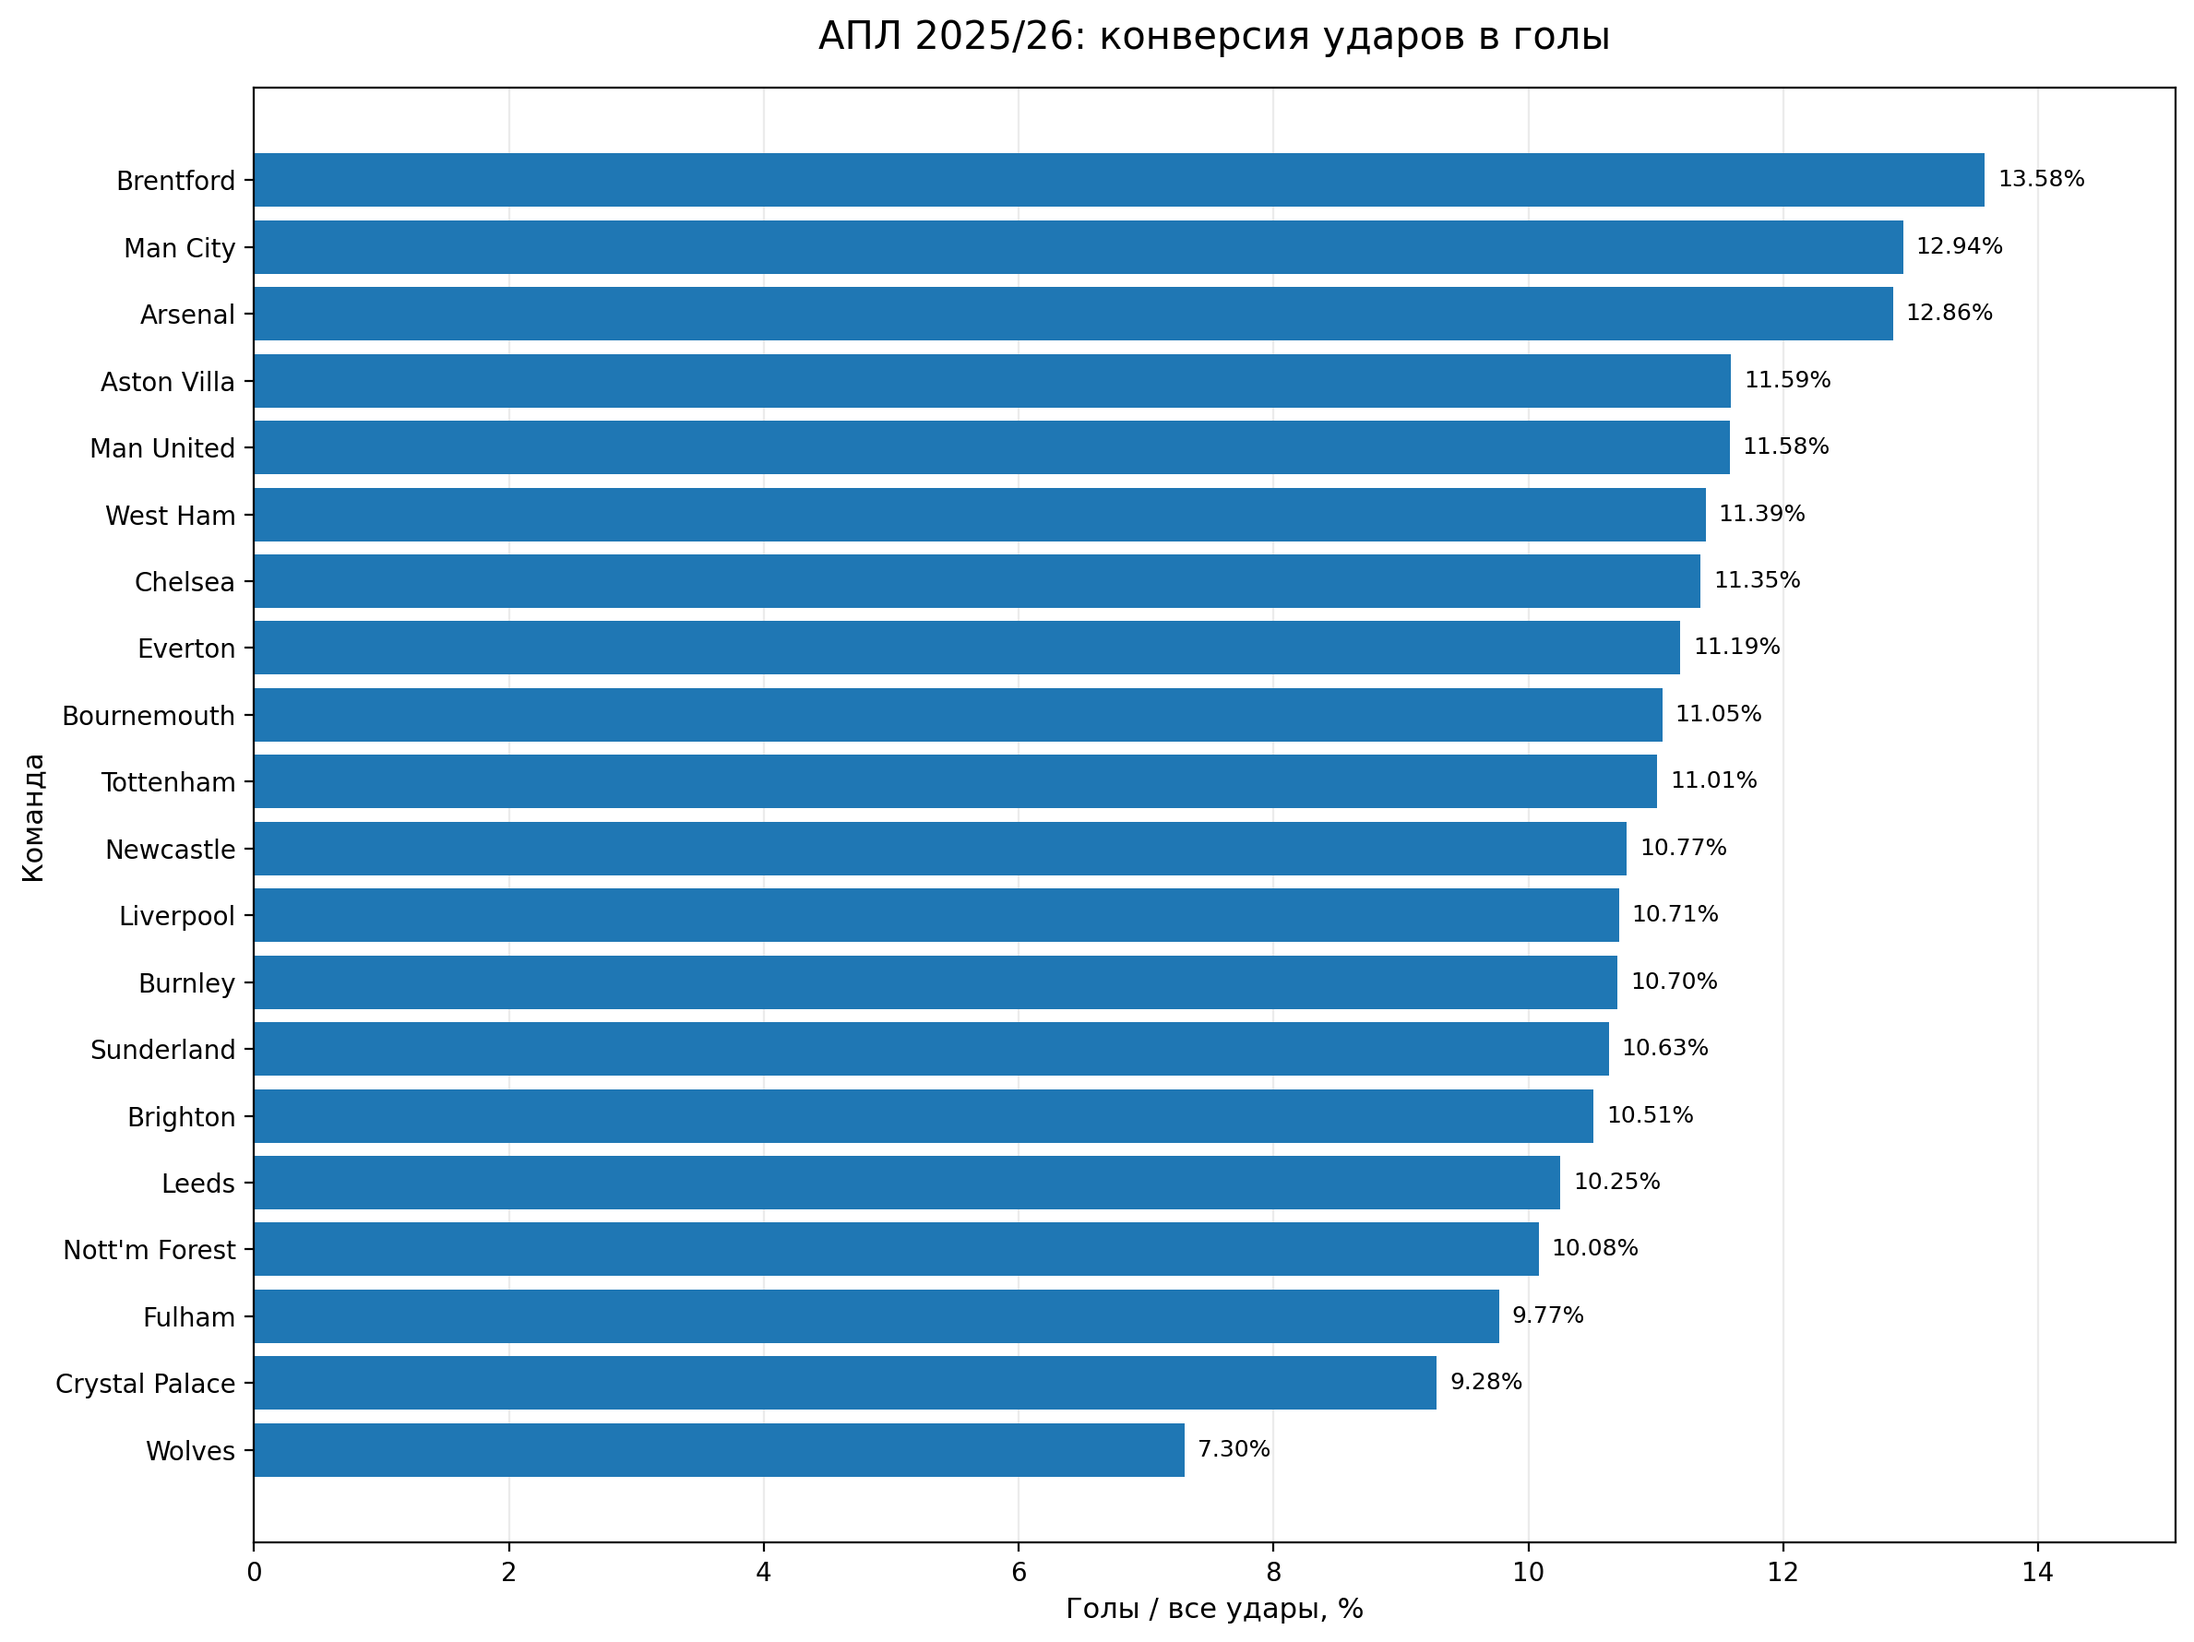
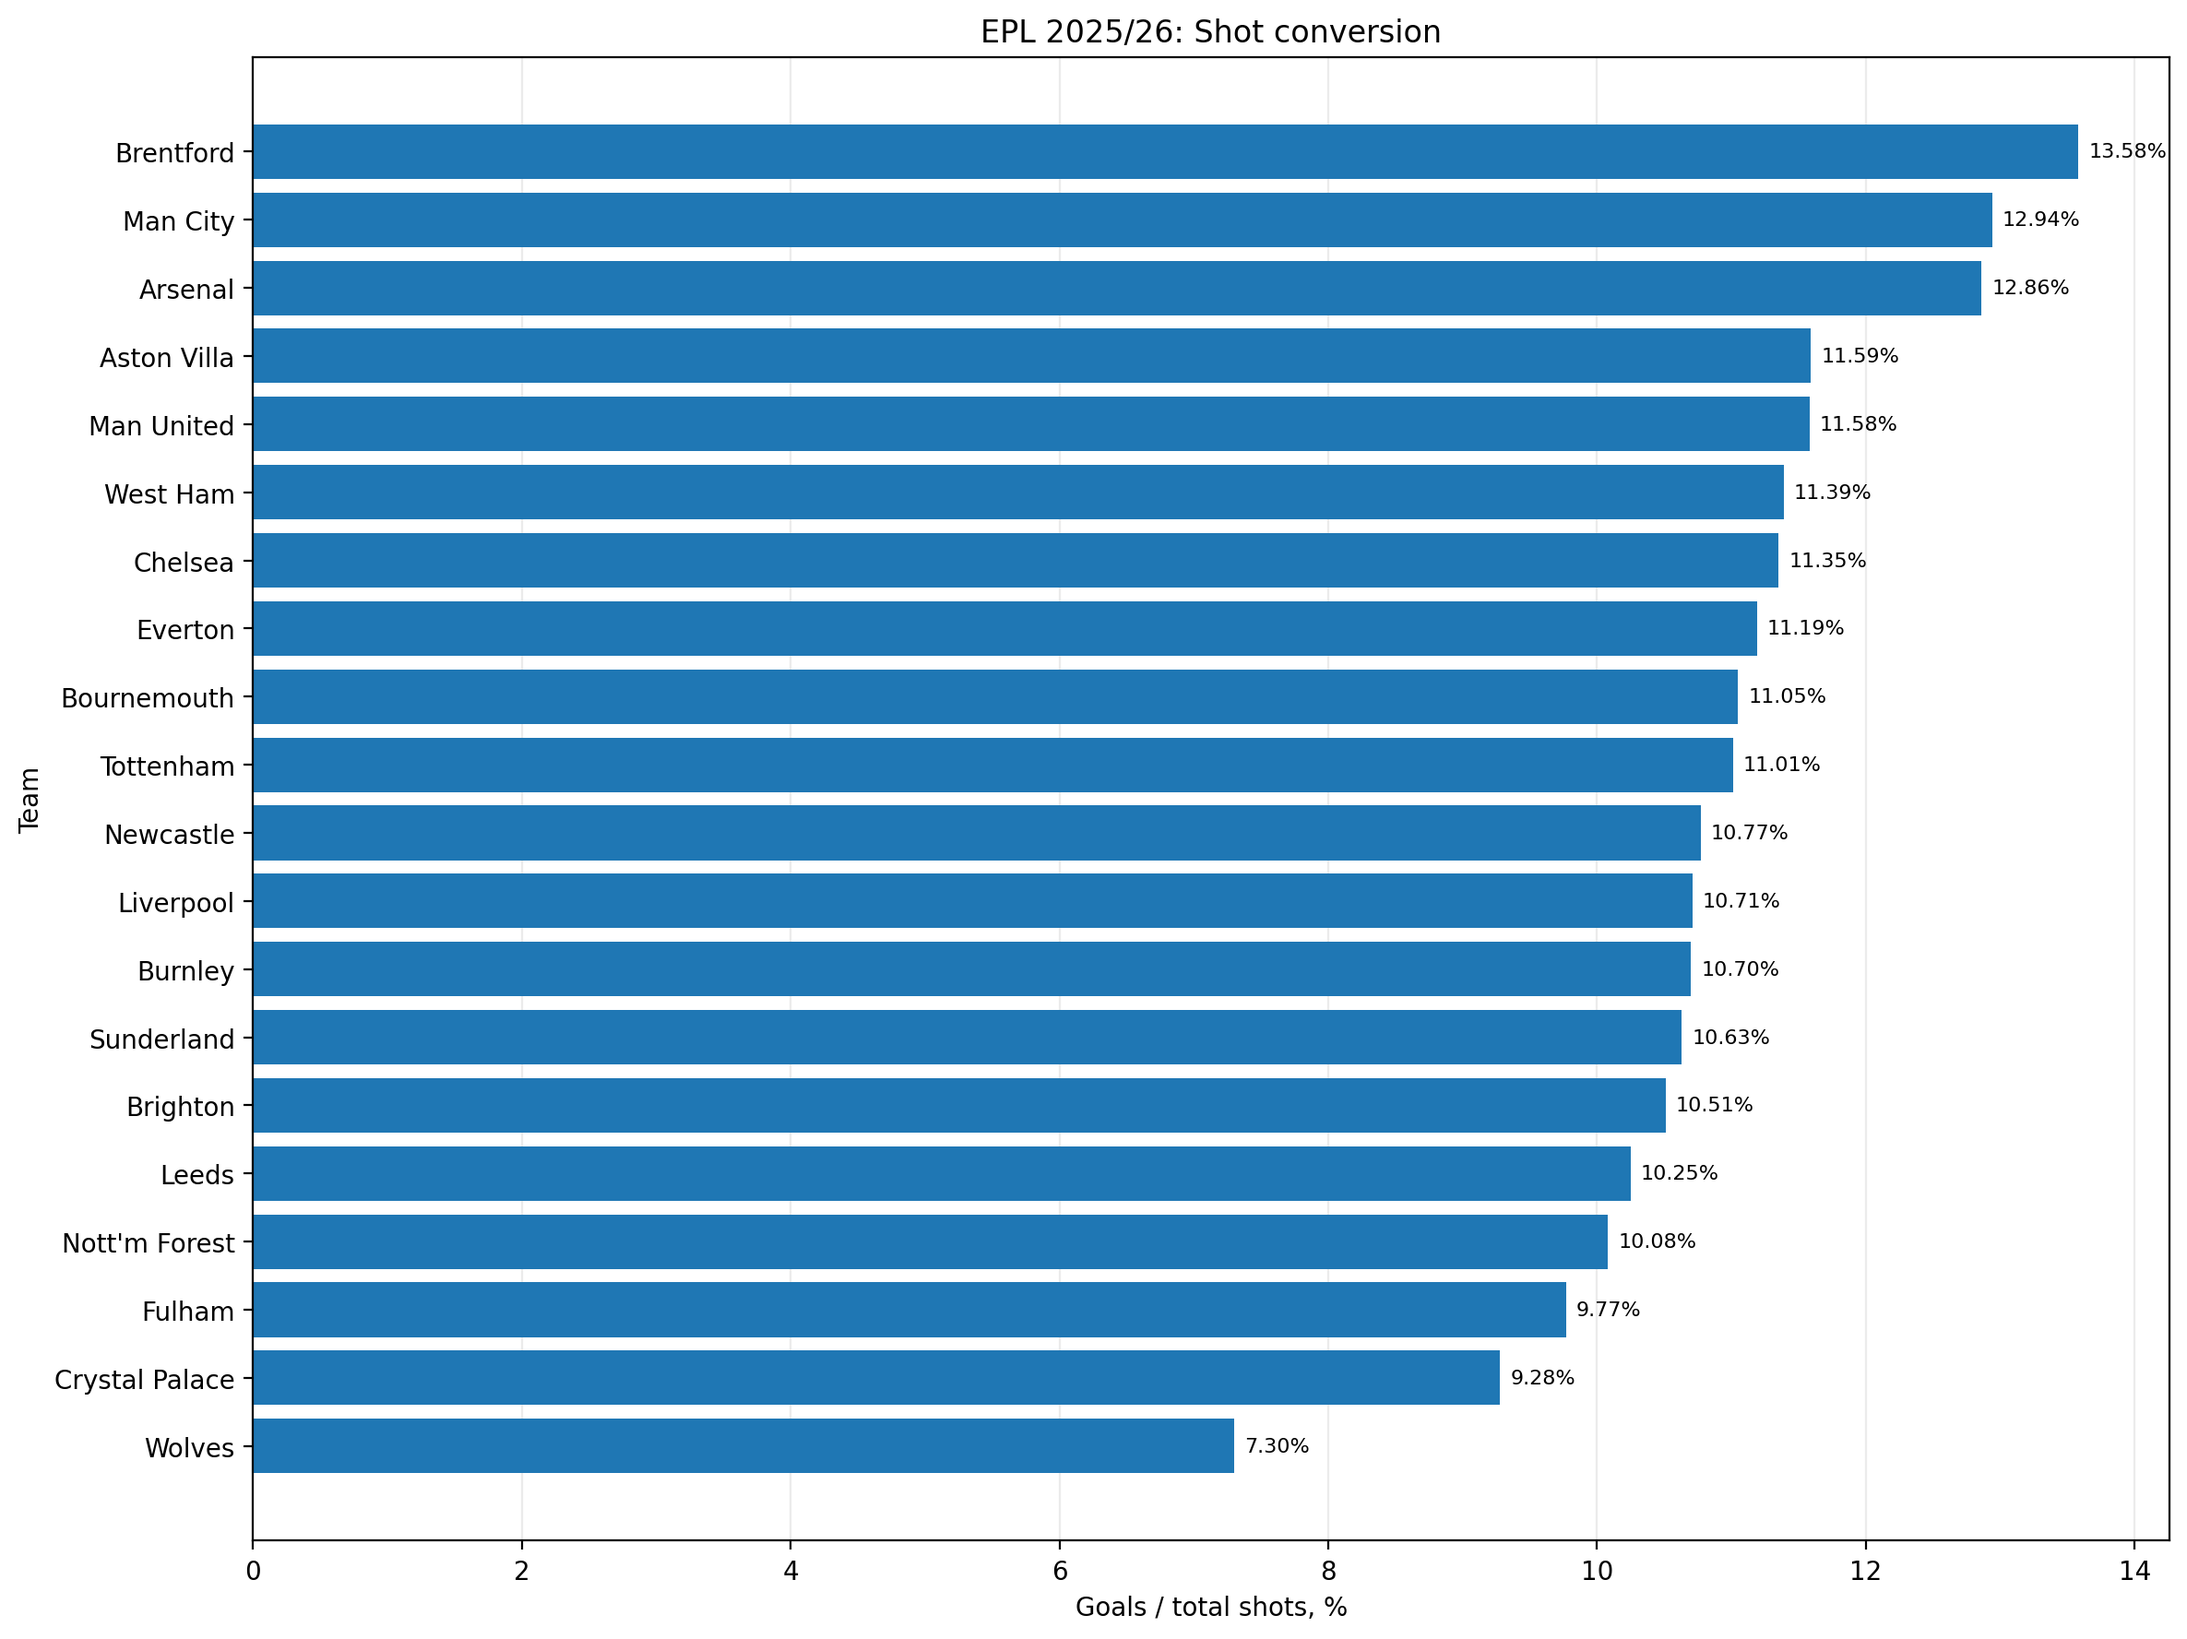
Add reproducible EPL analysis pipeline

diff --git a/scripts/run_pipeline.py b/scripts/run_pipeline.py
@@ -1,0 +1,171 @@
+from pathlib import Path
+import getpass
+from urllib.request import urlretrieve
+
+import matplotlib.pyplot as plt
+import pandas as pd
+from sqlalchemy import URL, create_engine, text
+
+ROOT = Path(__file__).resolve().parent.parent
+RAW = ROOT / "data" / "raw" / "E0.csv"
+CLEAN = ROOT / "data" / "processed" / "E0_clear.csv"
+RESULTS = ROOT / "results"
+SOURCE_URL = "https://www.football-data.co.uk/mmz4281/2526/E0.csv"
+DATABASE = "football_analytics_demo"
+
+
+def prepare_data():
+    RAW.parent.mkdir(parents=True, exist_ok=True)
+    CLEAN.parent.mkdir(parents=True, exist_ok=True)
+    RESULTS.mkdir(parents=True, exist_ok=True)
+    if not RAW.exists():
+        print(f"Downloading {SOURCE_URL}")
+        try:
+            urlretrieve(SOURCE_URL, RAW)
+        except Exception as exc:
+            raise RuntimeError(
+                f"Could not download the source CSV. Check the URL: {SOURCE_URL}"
+            ) from exc
+
+    source = pd.read_csv(RAW)
+    columns = ["Date", "HomeTeam", "AwayTeam", "FTHG", "FTAG", "HS", "AS", "HST", "AST"]
+    missing = sorted(set(columns) - set(source.columns))
+    if missing:
+        raise ValueError("Unexpected CSV format; missing columns: " + ", ".join(missing))
+
+    df = source[columns].copy().rename(columns={
+        "Date": "match_date", "HomeTeam": "home_team", "AwayTeam": "away_team",
+        "FTHG": "home_goals", "FTAG": "away_goals", "HS": "home_shots",
+        "AS": "away_shots", "HST": "home_shots_on_target", "AST": "away_shots_on_target",
+    })
+    df["match_date"] = pd.to_datetime(
+        df["match_date"], format="%d/%m/%Y", errors="raise"
+    ).dt.date
+    numeric = [
+        "home_goals", "away_goals", "home_shots", "away_shots",
+        "home_shots_on_target", "away_shots_on_target",
+    ]
+    for col in numeric:
+        df[col] = pd.to_numeric(df[col], errors="coerce")
+    if df.empty or df[numeric].isna().any().any():
+        raise ValueError("CSV is empty or has missing/non-numeric match statistics.")
+    df.to_csv(CLEAN, index=False, encoding="utf-8-sig")
+    print(f"Prepared {len(df)} matches; saved {CLEAN}")
+    return df
+
+
+def engine_for(database, password):
+    return create_engine(URL.create(
+        "postgresql+psycopg", username="postgres", password=password,
+        host="localhost", port=5432, database=database,
+    ), pool_pre_ping=True)
+
+
+def ensure_database(password):
+    admin = engine_for("postgres", password)
+    try:
+        with admin.connect().execution_options(isolation_level="AUTOCOMMIT") as conn:
+            exists = conn.execute(
+                text("SELECT 1 FROM pg_database WHERE datname = :db"), {"db": DATABASE}
+            ).scalar()
+            if not exists:
+                conn.execute(text(f'CREATE DATABASE "{DATABASE}"'))
+                print(f"Created separate database {DATABASE}")
+            else:
+                print(f"Using separate database {DATABASE}")
+    finally:
+        admin.dispose()
+
+
+def load_and_analyze(df, password):
+    engine = engine_for(DATABASE, password)
+    try:
+        with engine.begin() as conn:
+            conn.execute(text("""
+                CREATE TABLE IF NOT EXISTS matches_raw (
+                    match_date DATE, home_team TEXT, away_team TEXT,
+                    home_goals INTEGER, away_goals INTEGER,
+                    home_shots INTEGER, away_shots INTEGER,
+                    home_shots_on_target INTEGER, away_shots_on_target INTEGER
+                )
+            """))
+            conn.execute(text("TRUNCATE TABLE matches_raw"))
+            df.to_sql("matches_raw", conn, if_exists="append", index=False, method="multi")
+            conn.execute(text("DROP TABLE IF EXISTS team_match_stats"))
+            conn.execute(text("""
+                CREATE TABLE team_match_stats AS
+                SELECT match_date, home_team AS team, away_team AS opponent,
+                       'Home' AS venue, home_goals AS goals, home_shots AS shots,
+                       home_shots_on_target AS shots_on_target
+                FROM matches_raw
+                UNION ALL
+                SELECT match_date, away_team AS team, home_team AS opponent,
+                       'Away' AS venue, away_goals AS goals, away_shots AS shots,
+                       away_shots_on_target AS shots_on_target
+                FROM matches_raw
+            """))
+
+        result = pd.read_sql_query(text("""
+            SELECT team, SUM(goals)::INTEGER AS total_goals,
+                   SUM(shots)::INTEGER AS total_shots,
+                   SUM(shots_on_target)::INTEGER AS total_shots_on_target
+            FROM team_match_stats
+            GROUP BY team ORDER BY total_goals DESC
+        """), engine)
+        if result.empty:
+            raise ValueError("SQL analysis returned no rows.")
+        result["shot_conversion_pct"] = (
+            result["total_goals"] / result["total_shots"] * 100
+        ).round(2)
+        result["target_shot_pct"] = (
+            result["total_shots_on_target"] / result["total_shots"] * 100
+        ).round(2)
+        result["goals_per_target_pct"] = (
+            result["total_goals"] / result["total_shots_on_target"] * 100
+        ).round(2)
+        csv_path = RESULTS / "team_analysis.csv"
+        result.to_csv(csv_path, index=False, encoding="utf-8-sig")
+
+        ordered = result.sort_values("shot_conversion_pct")
+        fig, ax = plt.subplots(figsize=(12, 9))
+        bars = ax.barh(ordered["team"], ordered["shot_conversion_pct"])
+        ax.bar_label(bars, fmt="%.2f%%", padding=4, fontsize=8)
+        ax.set(title="EPL 2025/26: Shot conversion", xlabel="Goals / total shots, %", ylabel="Team")
+        ax.grid(axis="x", alpha=0.25)
+        ax.set_axisbelow(True)
+        fig.tight_layout()
+        fig.savefig(RESULTS / "shot_conversion.png", dpi=200, bbox_inches="tight")
+        plt.close(fig)
+
+        fig, ax = plt.subplots(figsize=(13, 9))
+        ax.scatter(result["total_shots"], result["total_goals"], s=65)
+        for _, row in result.iterrows():
+            ax.annotate(row["team"], (row["total_shots"], row["total_goals"]),
+                        xytext=(6, 3), textcoords="offset points", fontsize=8)
+        ax.set(title="EPL 2025/26: Total shots vs goals", xlabel="Total shots", ylabel="Goals")
+        ax.grid(alpha=0.25)
+        ax.set_axisbelow(True)
+        fig.tight_layout()
+        fig.savefig(RESULTS / "shots_vs_goals.png", dpi=200, bbox_inches="tight")
+        plt.close(fig)
+
+        print("\n=== EPL 2025/26 team analysis ===")
+        print(result.to_string(index=False))
+        print(f"\nSaved table: {csv_path}")
+        print(f"Saved charts: {RESULTS / 'shot_conversion.png'} and {RESULTS / 'shots_vs_goals.png'}")
+    finally:
+        engine.dispose()
+
+
+def main():
+    print(f"Pipeline uses separate database '{DATABASE}'.")
+    print("Your existing 'football_analytics' database will not be modified.")
+    password = getpass.getpass("PostgreSQL password for user 'postgres': ")
+    df = prepare_data()
+    ensure_database(password)
+    load_and_analyze(df, password)
+    print("\nPipeline completed successfully.")
+
+
+if __name__ == "__main__":
+    main()
